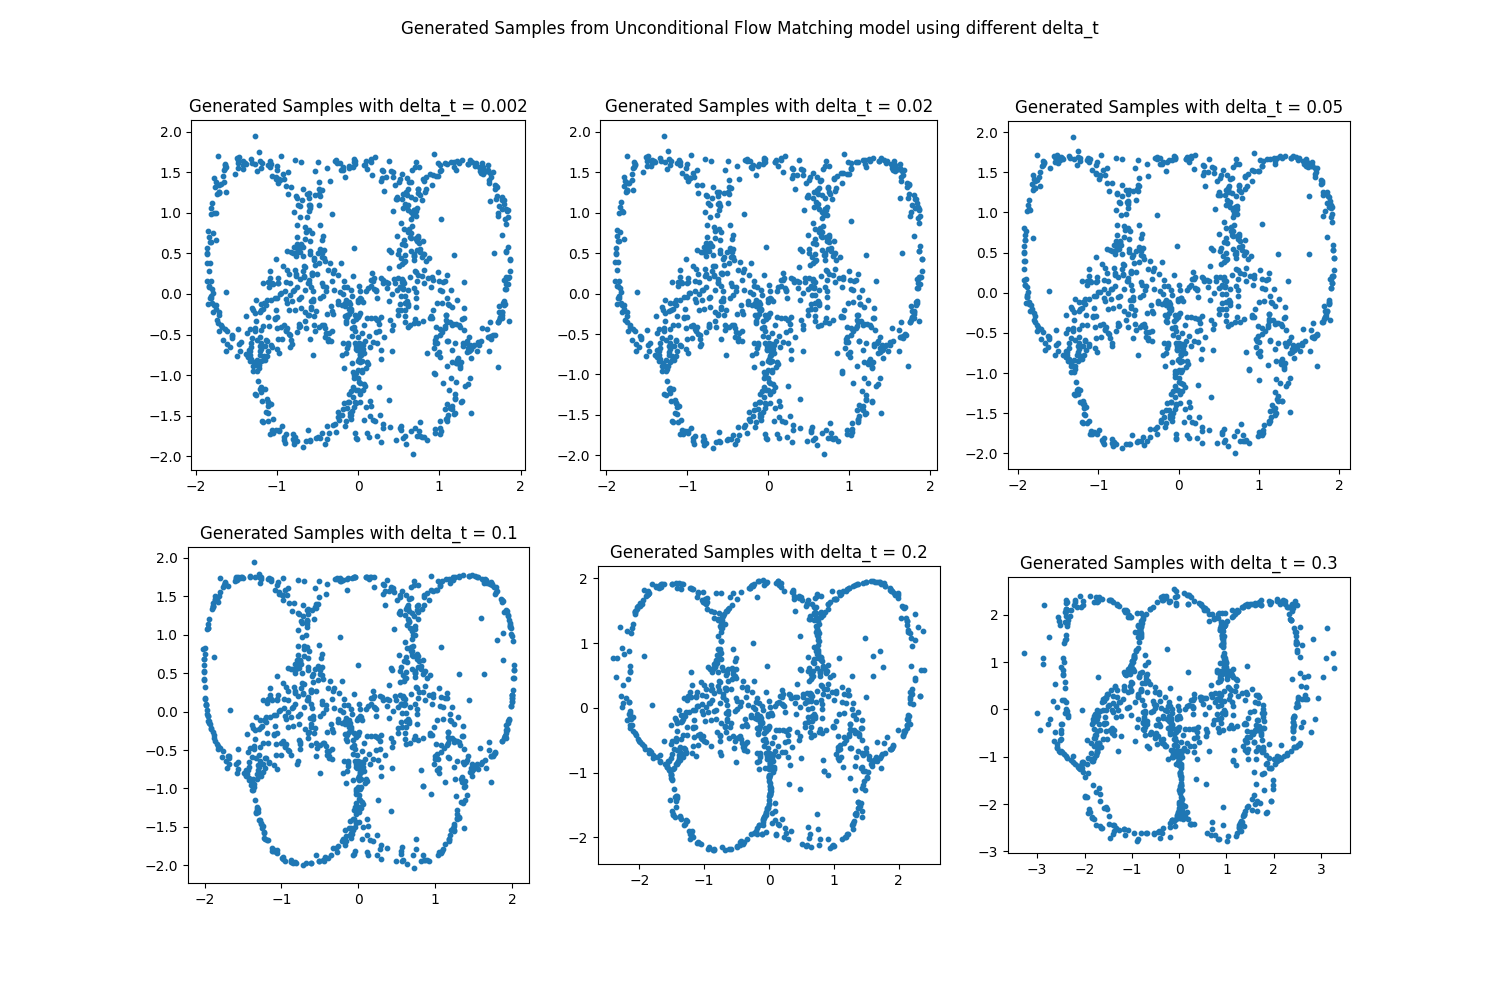
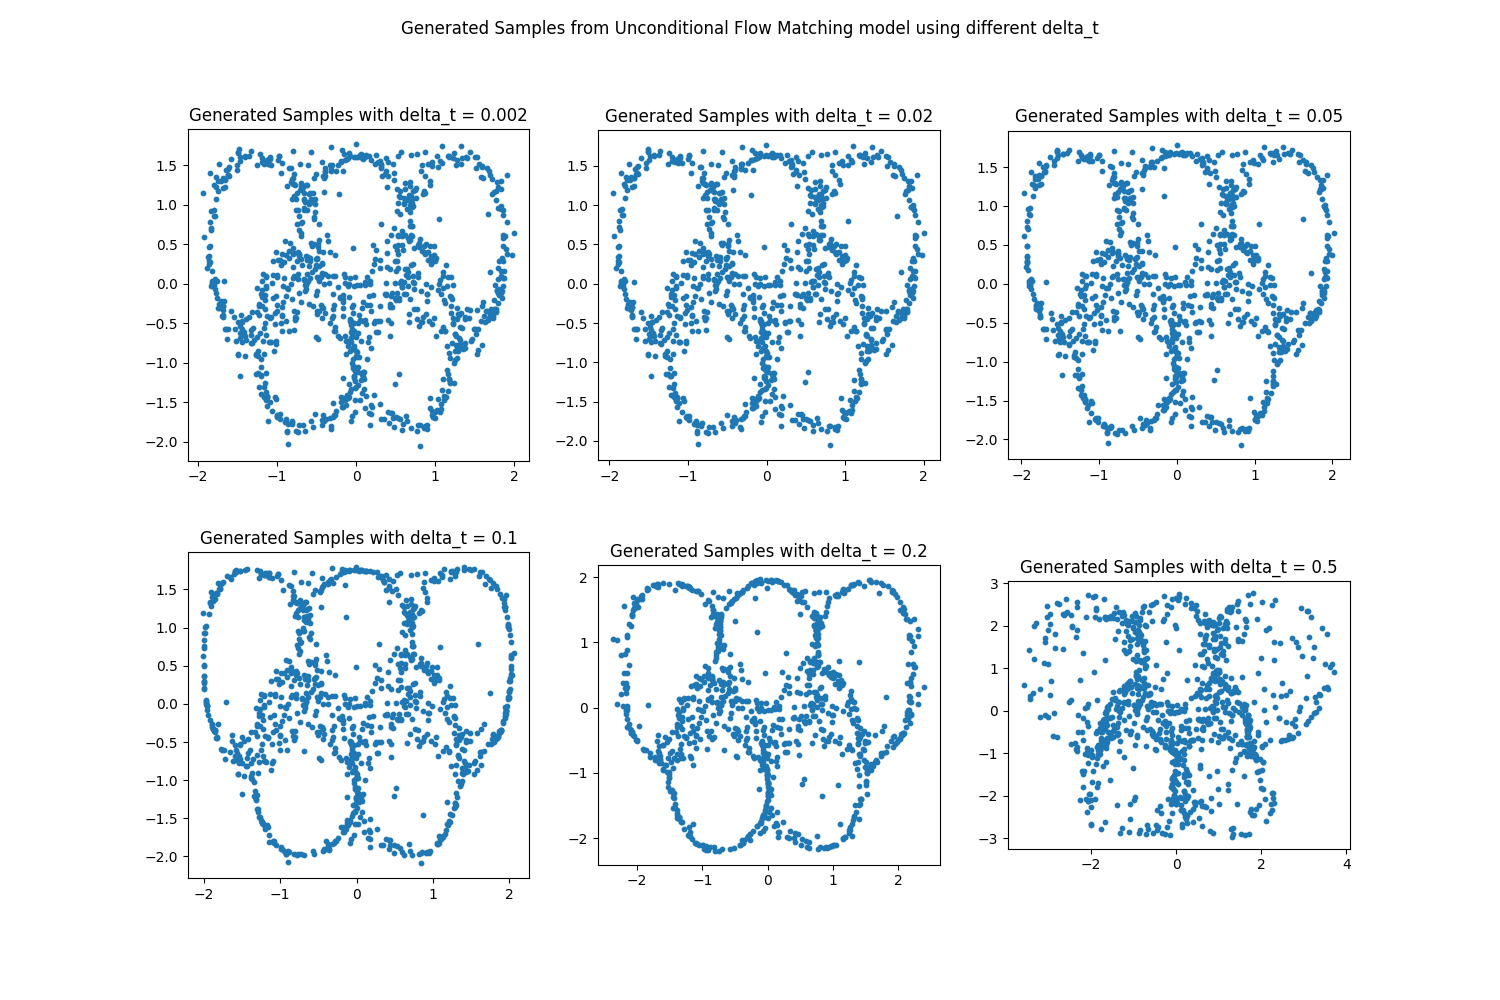
add files

diff --git a/ex2/flow_matching_main.py b/ex2/flow_matching_main.py
@@ -178,22 +178,22 @@ def Part_3_Q3_sampling(model, color_map, device='cpu', filename=''):
 
 
 def run_part_2(model, results, epochs, device, filenames):
-    Part_2_Q1_Loss(epochs, results, filename=filenames[0])
-    Part_2_Q2_flow_progression(model, n_samples=1000,
-                               time_steps=torch.tensor([0, 0.2, 0.4, 0.6, 0.8, 1.0], device=device),
-                               device=device, filename=filenames[1])
-    Part_2_Q3_point_trajectory(model,
-                               n_samples=10,
-                               device=device,
-                               filename=filenames[2])
+    # Part_2_Q1_Loss(epochs, results, filename=filenames[0])
+    # Part_2_Q2_flow_progression(model, n_samples=1000,
+    #                            time_steps=torch.tensor([0, 0.2, 0.4, 0.6, 0.8, 1.0], device=device),
+    #                            device=device, filename=filenames[1])
+    # Part_2_Q3_point_trajectory(model,
+    #                            n_samples=10,
+    #                            device=device,
+    #                            filename=filenames[2])
     Part_2_Q4_time_quantization(model,
                                 n_samples=1000,
-                                delta_ts=[0.002, 0.02, 0.05, 0.1, 0.2, 0.3],
+                                delta_ts=[0.002, 0.02, 0.05, 0.1, 0.2, 1/3],
                                 device=device,
                                 filename=filenames[3])
-    Part_2_Q5_reversing_the_flow(model, device=device,
-                                 filenames=[filenames[4],
-                                            filenames[5]])
+    # Part_2_Q5_reversing_the_flow(model, device=device,
+    #                              filenames=[filenames[4],
+    #                                         filenames[5]])
 
 
 def run_part_3(model, color_map, device, c_filenames):
@@ -317,8 +317,8 @@ def main():
                                               results_path=f"{RESULTS_PATH}/cfm_results_20_epochs.pkl",
                                               device=device)
     run_part_2(fm_model, fm_results, config["epochs"], device, uc_filenames)
-    run_part_3(cfm_model, color_map, device, c_filenames)
-    run_bonus(fm_model, device)
+    # run_part_3(cfm_model, color_map, device, c_filenames)
+    # run_bonus(fm_model, device)
 
 
 if __name__ == '__main__':

diff --git a/ex2/utils.py b/ex2/utils.py
@@ -119,43 +119,3 @@ def plot_trajectories(n_samples=10, layer_outputs=None, title="", filename="",
     plt.grid(True)
     plt.savefig(filename)
     plt.show()
-
-
-def plot_trajectories_over_samples(n_samples, trajectory, title="", filename="",
-                                   color_map=None, labels=None, samples=None, samples_labels=None):
-    fig, ax = plt.subplots(figsize=(10, 8))
-
-    if color_map is not None and labels is not None:
-        colors = [color_map[label.item()] for label in samples_labels]
-        ax.scatter(samples[:, 0], samples[:, 1], c=colors, s=10)
-
-    num_steps = len(trajectory)
-
-    # Plot trajectories (lines) with consistent color for each sample using edge_cmap
-    for i in range(n_samples):
-        x_vals = [trajectory[j][i, 0].item() for j in range(num_steps)]
-        y_vals = [trajectory[j][i, 1].item() for j in range(num_steps)]
-        ax.plot(x_vals, y_vals, marker=None,
-                label=f"class {labels[i].item()}",
-                color=color_map[labels[i].item()],
-                linewidth=3)
-    # # Overlay points with colors changing according to layer index using point_cmap
-    colors = plt.cm.viridis(np.linspace(0, 1, num_steps))
-
-    for j in range(num_steps):
-        x_coords_at_t = trajectory[j][:, 0]
-        y_coords_at_t = trajectory[j][:, 1]
-        ax.scatter(x_coords_at_t, y_coords_at_t, color=colors[j], marker='o', s=50, label=f'Time {j}' if j == 0 else "")
-
-    # Create a color bar to show the progression of time
-    sm = plt.cm.ScalarMappable(cmap='viridis', norm=plt.Normalize(vmin=0, vmax=num_steps - 1))
-    cbar = plt.colorbar(sm, ax=ax)
-    cbar.set_label('Time step')
-
-    ax.set_title(title)
-    ax.set_xlabel('X Coordinate')
-    ax.set_ylabel('Y Coordinate')
-    ax.legend()
-    ax.grid(True)
-    if filename: plt.savefig(filename)
-    plt.show()
